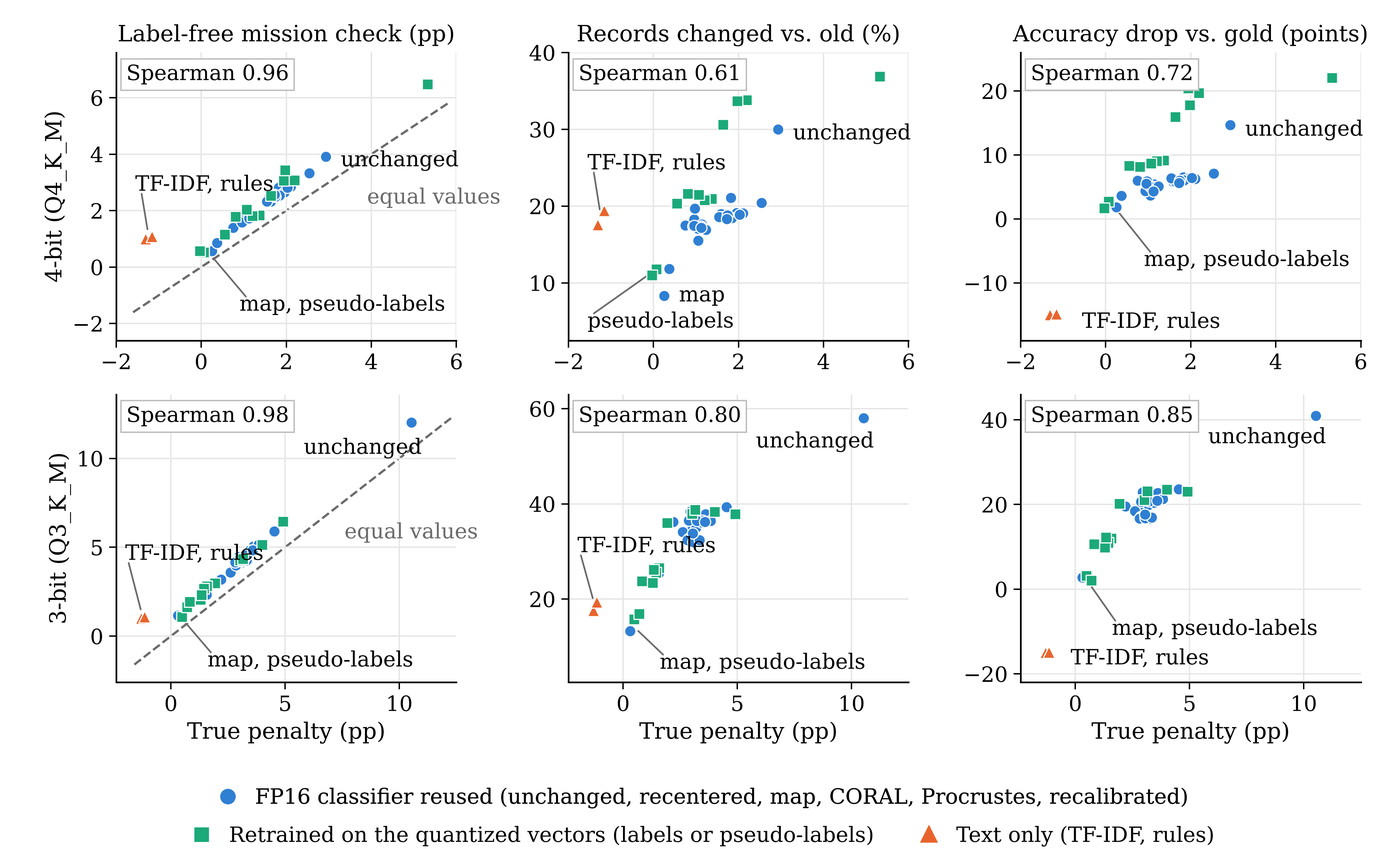
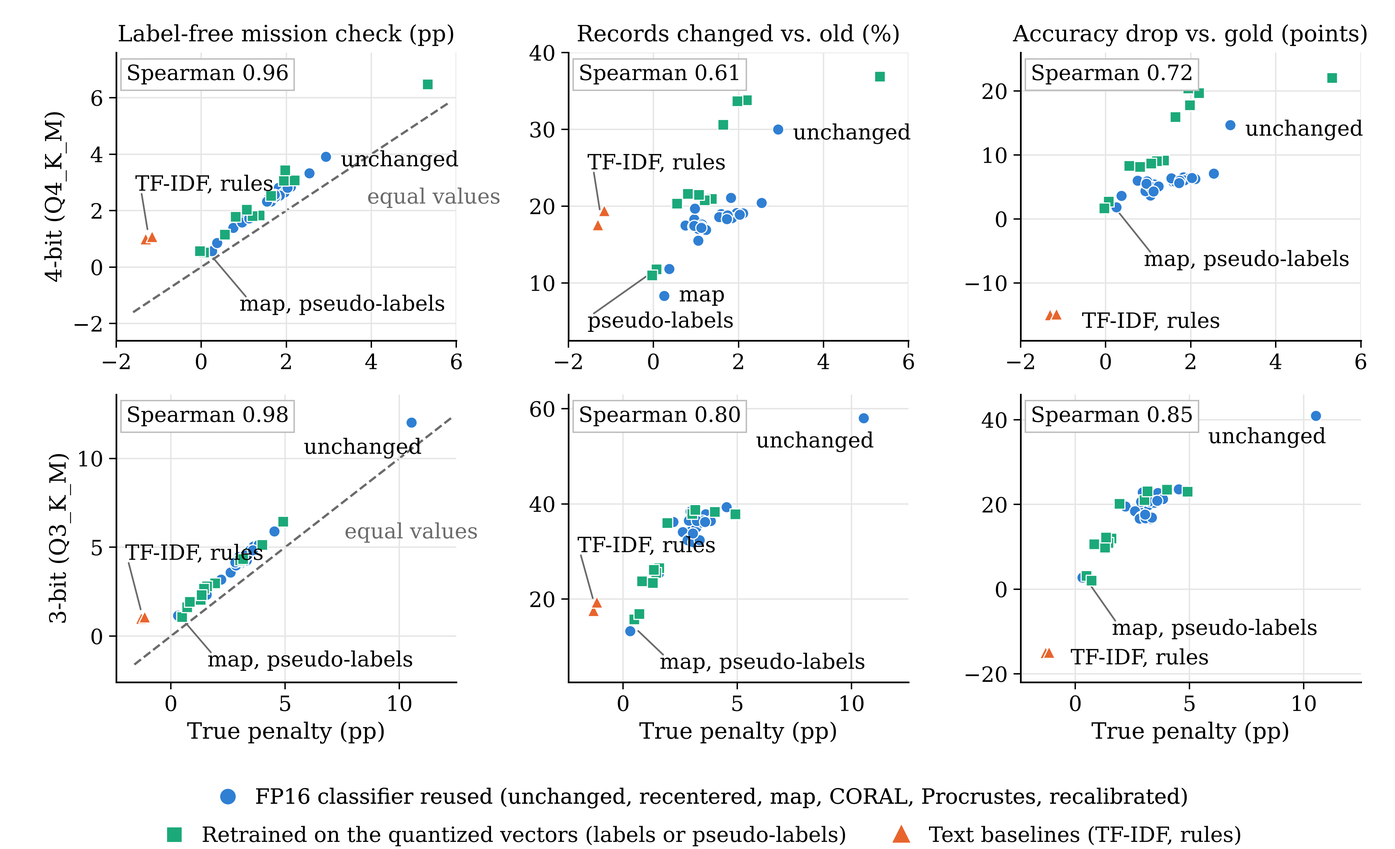
v2.17: manifest with head-fitting code and folds per result, Fig. 4 legend, READMEs

Changed region(s): [[0.1246, 0.9595, 0.8725, 1.0]]

diff --git a/check_confirmation/figures/fig4_check_v217.py b/check_confirmation/figures/fig4_check_v217.py
@@ -1,0 +1,114 @@
+# Fig. 4 (v2.17): true mission penalty of the 39 candidates (set C1, medium load) against the
+# label-free mission check, the share of changed records and the accuracy drop.
+# Same data and layout as v2.15/v2.16; only the legend entry of the text baselines changed ("Text only" ->
+# "Text baselines", because the TF-IDF baseline also reads incident-context tokens).
+# Usage: python3 fig4_check_v217.py check_results.json outdir
+import json, sys, os
+import matplotlib
+matplotlib.use('Agg')
+import matplotlib.pyplot as plt
+from matplotlib.lines import Line2D
+
+src, out = sys.argv[1], sys.argv[2]
+d = json.load(open(src))
+rows = [r for r in d['rows'] if r['set'] == 'C1' and r['level'] == 'M']
+cond = d['conditions']
+
+plt.rcParams.update({'font.family': 'DejaVu Serif', 'font.size': 8, 'axes.titlesize': 8,
+                     'axes.labelsize': 8, 'xtick.labelsize': 7.5, 'ytick.labelsize': 7.5,
+                     'legend.fontsize': 7.5, 'pdf.fonttype': 42, 'axes.linewidth': 0.6})
+BLUE, GREEN, ORANGE, GREY = '#2F7FD3', '#1BA97A', '#E8642C', '#6b6b6b'
+
+def group(arm):
+    if arm in ('tfidf', 'rule'): return 'text'
+    if arm == 'plp' or arm.startswith('ret'): return 'retrained'
+    return 'reused'
+STYLE = {'reused': dict(marker='o', color=BLUE, s=16), 'retrained': dict(marker='s', color=GREEN, s=15),
+         'text': dict(marker='^', color=ORANGE, s=18)}
+
+COLS = [('check_pp', 'Label-free mission check (pp)', 'spearman_check_pp'),
+        ('flips', 'Records changed vs. old (%)', 'spearman_flips'),
+        ('accuracy_drop', 'Accuracy drop vs. gold (points)', 'spearman_accuracy_drop')]
+TARGETS = [('Q4_K_M', '4-bit (Q4_K_M)'), ('Q3_K_M', '3-bit (Q3_K_M)')]
+
+def pt(t, arm, key):
+    r = next(r for r in rows if r['target'] == t and r['arm'] == arm)
+    return r['true_pp'], r[key]
+
+# label placements: (text, arms to point at or None, text position in data units, ha)
+LAB = {
+ ('Q4_K_M', 'check_pp'): [('unchanged', None, ('rawp', 0.35, -0.15), 'left'),
+                          ('TF-IDF, rules', ['tfidf', 'rule'], (-1.55, 2.9), 'left'),
+                          ('map, pseudo-labels', ['alnp', 'plp'], (0.9, -1.35), 'left')],
+ ('Q4_K_M', 'flips'): [('unchanged', None, ('rawp', 0.35, -0.6), 'left'),
+                       ('TF-IDF, rules', ['tfidf', 'rule'], (-1.55, 25.5), 'left'),
+                       ('pseudo-labels', ['plp'], (-1.55, 4.9), 'left'),
+                       ('map', None, ('alnp', 0.35, 0.0), 'left')],
+ ('Q4_K_M', 'accuracy_drop'): [('unchanged', None, ('rawp', 0.35, -0.8), 'left'),
+                               ('map, pseudo-labels', ['alnp', 'plp'], (0.9, -6.5), 'left'),
+                               ('TF-IDF, rules', None, ('tfidf', 0.75, -1.2), 'left')],
+ ('Q3_K_M', 'check_pp'): [('unchanged', None, ('rawp', 0.45, -1.45), 'right'),
+                          ('TF-IDF, rules', ['tfidf', 'rule'], (-2.0, 4.6), 'left'),
+                          ('map, pseudo-labels', ['alnp', 'plp'], (1.6, -1.4), 'left')],
+ ('Q3_K_M', 'flips'): [('unchanged', None, ('rawp', 0.45, -5.0), 'right'),
+                       ('TF-IDF, rules', ['tfidf', 'rule'], (-2.0, 31.0), 'left'),
+                       ('map, pseudo-labels', ['alnp', 'plp'], (1.6, 6.5), 'left')],
+ ('Q3_K_M', 'accuracy_drop'): [('unchanged', None, ('rawp', 0.45, -5.2), 'right'),
+                               ('map, pseudo-labels', ['alnp', 'plp'], (1.6, -9.5), 'left'),
+                               ('TF-IDF, rules', None, ('tfidf', 1.1, -1.5), 'left')],
+}
+YLIM = {('Q4_K_M', 'check_pp'): (-2.6, 7.6), ('Q4_K_M', 'flips'): (2.5, 40), ('Q4_K_M', 'accuracy_drop'): (-19, 26),
+        ('Q3_K_M', 'check_pp'): (-2.6, 13.6), ('Q3_K_M', 'flips'): (2.5, 63), ('Q3_K_M', 'accuracy_drop'): (-22, 46)}
+XLIM = {'Q4_K_M': (-2.0, 6.0), 'Q3_K_M': (-2.4, 12.5)}
+
+fig, axes = plt.subplots(2, 3, figsize=(6.9, 4.2))
+for i, (t, tname) in enumerate(TARGETS):
+    rr = [r for r in rows if r['target'] == t]
+    c = cond[t + ' C1 M']
+    for j, (key, title, skey) in enumerate(COLS):
+        ax = axes[i][j]
+        for g in ('reused', 'retrained', 'text'):
+            xs = [r['true_pp'] for r in rr if group(r['arm']) == g]
+            ys = [r[key] for r in rr if group(r['arm']) == g]
+            ax.scatter(xs, ys, edgecolors='white', linewidths=0.4, zorder=3, **STYLE[g])
+        ax.set_xlim(*XLIM[t]); ax.set_ylim(*YLIM[(t, key)])
+        if key == 'check_pp':
+            lo, hi = -1.6, XLIM[t][1] - 0.2
+            ax.plot([lo, hi], [lo, hi], ls='--', lw=0.8, color=GREY, zorder=1)
+            ex = 3.9 if t == 'Q4_K_M' else 7.6
+            ax.text(ex, ex - (1.65 if t == 'Q4_K_M' else 2.1), 'equal values', color=GREY, fontsize=7.5, ha='left')
+        for text, arms, pos, ha in LAB[(t, key)]:
+            if isinstance(pos[0], str):
+                x0, y0 = pt(t, pos[0], key)
+                ax.text(x0 + pos[1], y0 + pos[2], text, fontsize=7.5, ha=ha, va='center', zorder=4)
+            else:
+                ax.text(pos[0], pos[1], text, fontsize=7.5, ha=ha, va='center', zorder=4)
+            if arms:
+                xs = [pt(t, a, key)[0] for a in arms]; ys = [pt(t, a, key)[1] for a in arms]
+                tx, ty = sum(xs) / len(xs), sum(ys) / len(ys)
+                sx = pos[0] + (0.15 if ha == 'left' else -0.15)
+                sy = pos[1] + (0.6 if pos[1] < ty else -0.6) * (YLIM[(t, key)][1] - YLIM[(t, key)][0]) / 20
+                ax.annotate('', xy=(tx, ty), xytext=(sx, sy),
+                            arrowprops=dict(arrowstyle='-', lw=0.6, color=GREY, shrinkA=0, shrinkB=3), zorder=2)
+        ax.text(0.03, 0.96, 'Spearman %.2f' % c[skey], transform=ax.transAxes, ha='left', va='top', fontsize=7.5,
+                bbox=dict(boxstyle='square,pad=0.25', fc='white', ec='#bdbdbd', lw=0.5), zorder=5)
+        ax.grid(True, color='#e6e6e6', lw=0.5, zorder=0)
+        for s in ('top', 'right'): ax.spines[s].set_visible(False)
+        ax.tick_params(length=2.5, width=0.5, pad=2)
+        if i == 0: ax.set_title(title, pad=4)
+        if i == 1: ax.set_xlabel('True penalty (pp)', labelpad=2)
+        if j == 0: ax.set_ylabel(tname, labelpad=2)
+
+handles = [Line2D([], [], ls='', marker='o', color=BLUE, ms=4.5, label='FP16 classifier reused (unchanged, recentered, map, CORAL, Procrustes, recalibrated)'),
+           Line2D([], [], ls='', marker='s', color=GREEN, ms=4.2, label='Retrained on the quantized vectors (labels or pseudo-labels)'),
+           Line2D([], [], ls='', marker='^', color=ORANGE, ms=4.8, label="Text baselines (TF-IDF, rules)")]
+leg1 = fig.legend(handles=handles[:1], loc='lower center', ncol=1, frameon=False, bbox_to_anchor=(0.5, 0.035),
+                  handletextpad=0.3, borderaxespad=0.1)
+fig.legend(handles=handles[1:], loc='lower center', ncol=2, frameon=False, bbox_to_anchor=(0.5, -0.01),
+           handletextpad=0.3, columnspacing=1.6, borderaxespad=0.1)
+fig.add_artist(leg1)
+fig.tight_layout(rect=(0, 0.095, 1, 1), h_pad=0.9, w_pad=1.0)
+os.makedirs(out, exist_ok=True)
+fig.savefig(os.path.join(out, 'fig4_check.pdf'))
+fig.savefig(os.path.join(out, 'edgesar_fig_4.png'), dpi=600)
+print('saved', fig.get_size_inches())

diff --git a/PAPER_MANIFEST_v2.17.md b/PAPER_MANIFEST_v2.17.md
@@ -1,0 +1,66 @@
+# Manuscript draft v2.17: where each result comes from
+
+This file maps every table, figure and result section of manuscript draft v2.17 (*Adapting a Hidden-State Task Classifier to a 4-Bit
+Language Model: Missed Incidents and a Label-Free Check in Simulated Multi-UAV Rescue*) to the files of this repository (git tag
+`paper-v2.17`). Some older READMEs and result files inside the folders use the table numbers of earlier drafts; this manifest gives the
+current numbers. No result file was changed for v2.17 (only the legend of Fig. 4). Zenodo version 1.2 (23 Nov 2026) holds the files up
+to that date; the analyses of Sections V-I, V-J.8, V-K and V-L (`deployment_check/`, `fresh_confirmation/review_r9.py`,
+`fresh_confirmation/review_r10*.py`, `check_confirmation/`) and the files added with the tags `paper-v2.16` and `paper-v2.17` are only
+in this repository.
+
+**Zenodo file name.** The Zenodo record of the code and confirmation package (doi:10.5281/zenodo.24454853, version 1.2) holds one archive,
+`EdgeSAR_code_and_confirmation_v1.3_for_Zenodo.zip`. "v1.3" in the file name is our internal package number; the record's version is 1.2.
+
+| Manuscript v2.17 | Files | Notes |
+|---|---|---|
+| Section III (system), Appendix A (prompt) | `zenodo_v1/code/` (study code; prompt template in `zenodo_v1/code/edgesar_pilot/common.py`), `code/repair_package/` | Allocator, simulator, heads, recentering and the label-free map. |
+| Section III, allocator tests | `zenodo_v1/code/edgesar_shield/results/M1_cbba_report.md`, `zenodo_v1/code/edgesar_shield/IMPLEMENTATION_EVIDENCE.md` (row M1) | Three separate tests: convergence on 10,000 random instances (up to 4 UAVs and 12 tasks; bundle length 3, full graph); total score against brute force on 150 small instances (2-3 UAVs, 2-6 tasks; mean 0.986, worst 0.836 for bundle length 3); first assignments with bundle length 1 against the greedy single-task allocator on the 1,400 gold tables (1,400 of 1,400 equal). The bundle limit applies per auction pass (`shield/alloc.py`, docstring). |
+| Section IV-A, text baselines | `zenodo_v1/code/edgesar_pilot/baselines.py` (`rule_decision`, `find_target`, `lr_text`, `LRBaseline`) | The TF-IDF classifier reads the report text plus five incident-context tokens (`lr_text`): number of open incidents, target matched or not, the matched incident's current sensor and priority, incident identifier written. TF-IDF word 1-2 grams, sublinear tf, min_df 2; logistic regression C = 10. The same code is used in every study. |
+| Table 1, Fig. 2 (left): development results by load | `development_study/repair_package/out_mission/`, `development_study/practical_advantage/out_levels/`, `out_text_baselines/` | Check: `python development_study/practical_advantage/verify_from_records.py ...` (see `development_study/README_SUPPLEMENT.md`). Heads: see "Head fitting" below. |
+| Table 2: AUC and accuracy, development | `development_study/repair_package/diag_auc.py`, `out_diag/AUC_DIAG.md`, `out_diag/auc_diag.json` | Each AUC cell gives the value from class logits / from softmax probabilities, as in `AUC_DIAG.md` (style A, action head). Own split: see "Head fitting" below. |
+| Table 3, Fig. 3 (dotted): development label budget | `development_study/practical_advantage/mission_gold_trace.py`, `out_trace/` (`TRACE_RESULTS.md`) | Also the development field diagnosis of Section V-F. |
+| Fig. 3 (drawing) | `fresh_confirmation/figures/fig3_labels_v216.py`, `fig3_labels.pdf`, `fig3_labels.png` | The four reference levels are labeled with their values. Fresh points: 100 and 300 labels are the mean of five label draws; 1,000 labels is one fit on all development reports. |
+| Section V-A: generated JSON against hidden-state readout | `zenodo_v1/code/edgesar_pilot/results/pilot_report.md` (JSON, rules, TF-IDF), `zenodo_v1/code/edgesar_heads/results_heads/` (hidden-state heads) | |
+| Section V-G: text baselines, new wording | `development_study/practical_advantage/out_text_baselines/`, `out_wording_shift/`; fresh: `fresh_confirmation/results.json` | |
+| Section V-H: what did not help | `zenodo_v1/code/edgesar_shield/` (runtime check in `shield/`; importance-matrix files in `results/iter2/ITER2_SUMMARY.md`) | |
+| Section V-I: cost and CPU deployment | `development_study/practical_advantage/bench_cost.py`, `out_cost/`; `deployment_check/` (see `deployment_check/MEMORY_FIELDS_NOTE.md`) | The timed heads are the scikit-learn heads of `shield/readout.py`. |
+| Section V-E, run checks of the first confirmation | `fresh_confirmation/RUN_NOTES_AND_DEVIATIONS.md` (items 2 to 5), `fresh_confirmation/FROZEN.sha256` | Vector files: SHA-256 after joining equal to the values recorded at extraction (all four); frozen script hash checked with `sha256sum -c` just before the single run. |
+| Table 4 (pre-specified primary analysis) | `fresh_confirmation/results.json`, `episode_outcomes.csv`, `rebuild_primary.py` | `python rebuild_primary.py episode_outcomes.csv` ends with `ALL EQUAL TO results.json: True`. |
+| Table 5, Fig. 2 (right), Fig. 3 (solid), fresh field diagnosis | `fresh_confirmation/results.json`, `RESULTS.md`, `records/` | The scarce-label whole-record accuracies (A / B) are the means of the five draws in `results.json` (`accuracy/A_all` and `accuracy/B_all`, arms `q4p_n100_d0..d4` and `q4p_n300_d0..d4`): 64.1 / 60.6 (100 labels) and 74.3 / 69.3 (300 labels; set A is exactly 74.25, rounded half up). |
+| Section V-J.1, Table B1 | `fresh_confirmation/review_analyses.py` (`REVIEW_RESULTS.md` item 1, "Table 6" there), `review_overlap.py` (`review_overlap_by_population.json`, R8) | Exploratory. |
+| Section V-J.2, Table B4 | `fresh_confirmation/review_analyses.py`, `review_r2b.py`, `review_r2c.py` (`REVIEW_RESULTS.md` item 2, "Table 7" there) | Exploratory. |
+| Section V-J.3, Table B2 | `fresh_confirmation/review_analyses.py` (`REVIEW_RESULTS.md` item 3, "Table 8" there) | Exploratory. AUC from softmax probabilities. |
+| Sections V-J.4 and V-J.5 | `fresh_confirmation/review_analyses.py` (`REVIEW_RESULTS.md` items 4 and 5) | Exploratory. |
+| Section V-J.6, Table B3 | `fresh_confirmation/review_analyses.py` (`REVIEW_RESULTS.md` item 6, "Table 9" there) | Exploratory. |
+| Section V-J.7, Table 6 (label accounting) | `fresh_confirmation/review_r7.py`, `review_results_r7.json` (`REVIEW_RESULTS.md` R7) | Exploratory. |
+| Section V-J.8 (recalibration comparator) | `fresh_confirmation/review_r9.py`, `review_results_r9.json` (`REVIEW_RESULTS.md` R9) | Exploratory. |
+| Section V-K (exploratory check) | `fresh_confirmation/review_r10.py`, `review_r10_analysis.py`, `review_results_r10*.json` (R10); rerun with the frozen script: `check_confirmation/exploratory_R11_setsAB/` | Exploratory. |
+| Section IV-G, set C texts | `check_confirmation/generation_manifest_C.json`, `gen_set_c.py` (`case_key`) | No set-C case (text, open incidents and gold record) repeats a development, first-confirmation or earlier set-C case. Texts identical to a first-confirmation text: 1,319 of 3,000 (C1), 423 of 2,000 (C2); to a development text: 649 (C1), 244 (C2). |
+| Sections IV-G and V-L, Table 7 (check confirmation) | `check_confirmation/PROTOCOL_CHECK_CONFIRM.md` (tag `check-protocol-2026-11-26`), `results/check_results.json`, `results/check_episodes.json`, `results/RESULTS.md` | Pre-specified; one run. The reports and gold records existed when the protocol was pushed; no model output on them did. |
+| Section V-L, post hoc analyses (six label-free options; label draws averaged) | `check_confirmation/posthoc_check_analyses.py`, `results/posthoc_check_analyses.md` | Not pre-specified; descriptive (added in v2.16). Part A is also in `posthoc_six_options.py`. |
+| Fig. 4 | `check_confirmation/figures/fig4_check_v217.py` (from `results/check_results.json`), `fig4_check.pdf`, `fig4_check.png` | Same data as v2.13; v2.17 only renames the legend entry "Text only" to "Text baselines". It shows two conditions: set C1 at medium load for the 4-bit and the 3-bit model. |
+| Fig. 1 | (diagram; no data) | |
+| Table 8 | (comparison with published studies; no data) | |
+| Q3_K_M model file | `check_confirmation/DEVIATIONS.md` item 1, `zenodo_v1/code/edgesar_pilot/results/model_hashes.json` | SHA-256 of the laptop file checked on 26 Nov 2026: equal to the pilot record. |
+
+## Head fitting: which code, which folds (Section IV-A and IV-B of v2.17)
+
+All heads are multinomial logistic regressions with an L2 penalty on standardized vectors, with C chosen from
+{0.0003, 0.003, 0.03, 0.3, 3} by three-fold grouped cross-validation on held-out cross-entropy. Two implementations were used:
+
+| Results | Heads (code) | Folds that choose C | Fitting and scoring reports |
+|---|---|---|---|
+| Table 1 (hidden-state arms), Fig. 2 (left), Table 3, Fig. 3 (dotted), development field diagnosis (Section V-F), cost measurement (Section V-I) | `zenodo_v1/code/edgesar_shield/shield/readout.py` (`Heads`, `fit_head`): scikit-learn `LogisticRegression` (L-BFGS, tol 1e-6, max_iter 3000) after `StandardScaler`; used by `development_study/repair_package/mission_ladder.py`, `development_study/practical_advantage/mission_gold_trace.py` and `bench_cost.py` | `GroupKFold(3)` over generation blocks (`DevData.group`, the generator's "families" of ten consecutive reports) | `shield/data.py`, `DevData.split`: five folds of the 1,000 style-A reports by generation block; per outer fold k: evaluation = fold k, calibration = fold k+1, fitting = the other three after removing exact duplicates of calibration or evaluation texts (about 520 remain) |
+| Table 2 | `development_study/repair_package/ppr_lib.py` (`fit_head`; L-BFGS in the row space of the standardized training matrix) via `run_ppr.fit_heads` | three folds grouped by masked template (`template_key`) | `diag_auc.py`: five folds of the 1,000 style-A reports grouped by masked template (`group_folds`, seed of repeat 0); heads fitted on four folds and scored on the fifth; values averaged over the folds |
+| Section V-G, development missions on style B (new wording) | `ppr_lib.fit_head` (see the note in `development_study/practical_advantage/wording_shift_mission.py`) | masked template | fitted on style A, scored on style B |
+| First confirmation (Tables 4 to 6, B1 to B4, Fig. 2 right, Fig. 3 solid) and its exploratory analyses (V-J, V-K); check confirmation (Table 7, Fig. 4) | `ppr_lib.fit_head` via `run_ppr.fit_heads` (`fresh_confirmation/fresh_confirm.py`, `review_*.py`, `check_confirmation/check_confirm.py`) | masked template | fitted on the 1,000 development style-A reports (all of them, or the drawn label subsets) |
+
+The label-free map (`ppr_lib.AffineMap`) chooses its ridge strength with three folds grouped by masked template in every study. Its means
+and scales are computed once from all its fitting reports.
+
+**Earlier numbering.** Drafts v2.14 to v2.17 use the numbering of this manifest. Draft v2.13 called Tables B1 to B4 "Supplementary Tables S1 to S4" (`supplementary/`, same numbers). Drafts up to
+v2.12 numbered the exploratory tables 6 to 11; `fresh_confirmation/REVIEW_RESULTS.md` keeps that numbering.
+
+**Note on `development_study/README_SUPPLEMENT.md`.** Its "Protocol file note" says that line 3 of `PROTOCOL_PRACTICAL_ADVANTAGE.md` was
+reworded in copies given to later mock reviews. That line mentions the score of an earlier mock review; it was reworded so that later
+mock reviews were not anchored on that score. The file in this repository is the original, byte for byte (its checksum is unchanged).

diff --git a/README.md b/README.md
@@ -4,9 +4,9 @@ Code and data of the study *"Adapting a Hidden-State Task Classifier to a 4-Bit 
 
 A classifier with three heads (action, sensor, priority) reads the last-token hidden vector of Llama 3.2 1B Instruct (llama.cpp GGUF files). Its task records drive a bounded CBBA allocator for three simulated UAVs in a flood rescue. The study measures how many incidents are verified late or never when the FP16 classifier is moved to the 4-bit Q4_K_M model: unchanged, recentred, with a label-free alignment map, or retrained with 100, 300 or 1,000 labels. All reports are synthetic.
 
-**Code and confirmation package (permanent record):** [doi:10.5281/zenodo.24454853](https://doi.org/10.5281/zenodo.24454853) (version 1.2, 23 Nov 2026). The analyses added after that version (Sections V-I, V-J.8, V-K and V-L of the manuscript, among them `deployment_check/` and `check_confirmation/`) are only in this repository; `PAPER_MANIFEST_v2.16.md` lists where each one is.
+**Code and confirmation package (permanent record):** [doi:10.5281/zenodo.24454853](https://doi.org/10.5281/zenodo.24454853) (version 1.2, 23 Nov 2026). The analyses added after that version (Sections V-I, V-J.8, V-K and V-L of the manuscript, among them `deployment_check/` and `check_confirmation/`) are only in this repository; `PAPER_MANIFEST_v2.17.md` lists where each one is. That record's archive file is named `EdgeSAR_code_and_confirmation_v1.3_for_Zenodo.zip`; "v1.3" is our internal package number, the record's version is 1.2.
 
-**Version that accompanies manuscript draft v2.16:** git tag `paper-v2.16` (https://github.com/SamadhiViduravi/edgeSAR/tree/paper-v2.16). `PAPER_MANIFEST_v2.16.md` maps every table (1 to 8, B1 to B4), figure (1 to 4) and result section of that draft to the files here (some READMEs inside the folders use the table numbers of earlier drafts; the manifest gives the current ones). New since `paper-v2.13`, without changing any result file: the post hoc analyses of Section V-L (`check_confirmation/posthoc_check_analyses.py`: the six label-free options only, and the label draws averaged), the scripts of Fig. 3 (`fresh_confirmation/figures/`) and Fig. 4 (`check_confirmation/figures/`), and the result of the SHA-256 check of the 3-bit model file (`check_confirmation/DEVIATIONS.md`). (A tag `paper-v2.15` was prepared for draft v2.15 but never published; its content is part of this tag.) Earlier tags: `paper-v2.13` (results of the check confirmation in `check_confirmation/`, and `supplementary/` with the tables that are now Tables B1 to B4 in Appendix B), `check-protocol-2026-11-26` (the protocol, analysis script, reports and GPU script of the check confirmation, pushed before the new vectors were extracted), `paper-v2.12` (the exploratory label-free check, `fresh_confirmation/review_r10*.py`), `paper-v2.10` (memory-field note of the deployment runs) and `paper-v2.8` (CPU deployment runs).
+**Version that accompanies manuscript draft v2.17:** git tag `paper-v2.17` (https://github.com/SamadhiViduravi/edgeSAR/tree/paper-v2.17). `PAPER_MANIFEST_v2.17.md` maps every table (1 to 8, B1 to B4), figure (1 to 4) and result section of that draft to the files here (some READMEs inside the folders use the table numbers of earlier drafts; the manifest gives the current ones). It also lists which head-fitting code and which cross-validation folds each result used: the development missions on style A and the cost measurement used the scikit-learn heads of `zenodo_v1/code/edgesar_shield/shield/readout.py` with folds grouped by generation block; Table 2, the development missions on style B and both confirmations used `ppr_lib.fit_head` with folds grouped by masked template. New in `paper-v2.17`, without changing any result file: this manifest, and Fig. 4 with the legend entry "Text baselines" instead of "Text only" (`check_confirmation/figures/fig4_check_v217.py`), because the TF-IDF baseline also reads five incident-context tokens (`zenodo_v1/code/edgesar_pilot/baselines.py`, `lr_text`). `paper-v2.16` (draft v2.16) added the post hoc analyses of Section V-L (`check_confirmation/posthoc_check_analyses.py`), the scripts of Fig. 3 (`fresh_confirmation/figures/`) and Fig. 4 (`check_confirmation/figures/`), and the result of the SHA-256 check of the 3-bit model file (`check_confirmation/DEVIATIONS.md`); a tag `paper-v2.15` was prepared but never published. Earlier tags: `paper-v2.13` (results of the check confirmation in `check_confirmation/`, and `supplementary/` with the tables that are now Tables B1 to B4 in Appendix B), `check-protocol-2026-11-26` (the protocol, analysis script, reports and GPU script of the check confirmation, pushed before the new vectors were extracted), `paper-v2.12` (the exploratory label-free check, `fresh_confirmation/review_r10*.py`), `paper-v2.10` (memory-field note of the deployment runs) and `paper-v2.8` (CPU deployment runs).
 
 **Dataset (permanent record):** EdgeSAR-Reports-1400, [doi:10.5281/zenodo.24218688](https://doi.org/10.5281/zenodo.24218688) (data CC BY 4.0, code MIT).
 
@@ -15,13 +15,13 @@ A classifier with three heads (action, sensor, priority) reads the last-token hi
 | Folder | What it is |
 |---|---|
 | `zenodo_v1/` | The Zenodo release v1, unchanged: 1,400 reports (`data/cases.jsonl`), the seeded generator, the study code (`code/edgesar_pilot`, `edgesar_heads`, `edgesar_shield`, `V1`), `DATA_CARD.md`, checksums. Check it with `python zenodo_v1/verify_dataset.py`. |
-| `code/repair_package/` | `ppr_lib.py` and `run_ppr.py`: the classifier heads, recentring, alignment map and retraining used by the fresh confirmation. |
-| `development_study/` | The development (exploratory) study: repair and label-budget experiments, mission ladder, AUC diagnosis, text baselines (TF-IDF, keyword rules), wording shift, cost and load levels, each with its hashed protocol and outputs. See `development_study/README_SUPPLEMENT.md`. |
+| `code/repair_package/` | `ppr_lib.py` and `run_ppr.py`: the classifier heads, recentring, alignment map and retraining used by Table 2, the development missions on style B and both confirmations (the development missions on style A used `zenodo_v1/code/edgesar_shield/shield/readout.py`). |
+| `development_study/` | The development (exploratory) study: repair and label-budget experiments, mission ladder, AUC diagnosis, text baselines (TF-IDF with incident-context tokens, keyword rules), wording shift, cost and load levels, each with its hashed protocol and outputs. See `development_study/README_SUPPLEMENT.md`. |
 | `fresh_confirmation/` | The pre-specified confirmation on 7,000 fresh reports: frozen protocol, scripts and SHA-256 hash file, timestamp record, fresh reports, episode manifest, per-episode outcomes of every arm, registered results, run notes, and the exploratory (not pre-specified) analyses, including the label accounting of Table 6 (`review_r7.py`), the overlap by development population (`review_overlap.py`), the decision-level recalibration comparator (`review_r9.py`) and the label-free mission check (`review_r10.py`, `review_r10_analysis.py`). See `fresh_confirmation/README.md`. |
 | `check_confirmation/` | The pre-specified confirmation of the label-free mission check (set C, 5,000 new reports; 4-bit and 3-bit models; 39 candidate classifiers; 12 conditions): frozen protocol and hash file, analysis and extraction scripts, the new reports, the results (`results/check_results.json`, per-episode counts, run log, `results/RESULTS.md`), the extraction report and server logs, the exploratory run R11 on sets A and B, and `DEVIATIONS.md`. See `check_confirmation/README.md`. |
 | `supplementary/` | Tables B1 to B4 of the manuscript (Appendix B; exploratory analyses of the first confirmation), as Markdown and Word; the files keep their draft-v2.13 names (S1 to S4). See `supplementary/README.md`. |
 | `deployment_check/` | The CPU deployment runs of Section V-I (laptop CPU, llama.cpp b11901, four configurations A-D): scripts and exact commands, the folded classifier (`folded/folded_q4.npz`), per-report timings and records, memory samples and the `llama-server` logs. Used for memory and latency (and the service time of the delay analysis). Units are MiB; see `deployment_check/MEMORY_FIELDS_NOTE.md`. |
-| `PAPER_MANIFEST_v2.16.md` | Where each table, figure and result section of manuscript draft v2.16 comes from. |
+| `PAPER_MANIFEST_v2.17.md` | Where each table, figure and result section of manuscript draft v2.17 comes from, and which head-fitting code and folds each result used. |
 | `make_root.py` | Builds the folder layout that the confirmation scripts expect (`--root`). |
 | `app_v1_demo/` | The first web prototype of the project (Next.js + FastAPI mission-control app and an allocation demo page, October 2026). Kept for the project record; **not used for any result in the paper**. See `app_v1_demo/README_FIRST.md`. |
 

diff --git a/fresh_confirmation/README.md b/fresh_confirmation/README.md
@@ -26,7 +26,7 @@ every value against `results.json`.
 | `RUN_NOTES_AND_DEVIATIONS.md` | Everything that happened around the run |
 | `review_analyses.py`, `review_r2b.py`, `review_r2c.py`, `review_r7.py` | Exploratory analyses added after the registered run, in answer to review (not pre-registered); `review_r7.py` (22 Nov 2026) is the label accounting of Table 6; `review_overlap.py` (23 Nov 2026) is the overlap of Table B1 by development population; `review_r9.py` (23 Nov 2026) is the decision-level recalibration comparator; `review_r10.py`, `review_r10_analysis.py` and `review_r10_fig4.py` (25 Nov 2026) are the exploratory label-free mission check of Section V-K (Table 11 and Fig. 4 of draft v2.12; in v2.15 the check confirmation of Section V-L, Table 7 and Fig. 4 are in `check_confirmation/`) |
 | `REVIEW_RESULTS.md`, `review_results.json`, `review_results_r2b.json`, `review_results_r2c.json`, `review_results_r7.json`, `review_overlap_by_population.json`, `review_results_r9.json`, `review_results_r10.json`, `review_results_r10_episodes.json`, `review_results_r10_analysis.json`, `review_r10_log.txt` | Their outputs (Section V-J with Table 6 and Tables B1 to B4, and Section V-K, of manuscript v2.15; `REVIEW_RESULTS.md` keeps the table numbers of earlier drafts, see `PAPER_MANIFEST_v2.15.md`) |
-| `figures/fig3_labels_v216.py`, `figures/fig3_labels.pdf`, `figures/fig3_labels.png` | Fig. 3 of manuscript v2.16 (label budget at medium load, development and fresh, with the four reference levels labeled with their values). The numbers and their source files are listed at the top of the script: `python figures/fig3_labels_v216.py figures` |
+| `figures/fig3_labels_v216.py`, `figures/fig3_labels.pdf`, `figures/fig3_labels.png` | Fig. 3 of manuscript drafts v2.16 and v2.17 (label budget at medium load, development and fresh, with the four reference levels labeled with their values). The numbers and their source files are listed at the top of the script: `python figures/fig3_labels_v216.py figures` |
 
 The hidden-state vectors (4 x 57 MB) and model files are not in this package. The vectors can be re-made with `fresh_extract.py` and the
 audited GGUF files (llama.cpp b11901); their SHA-256 values are in `extraction_report.json`.

diff --git a/check_confirmation/README.md b/check_confirmation/README.md
@@ -27,7 +27,7 @@ penalty is the same difference computed with the gold records. The check needs n
 | `DEVIATIONS.md` | Notes on how the run relates to the protocol. |
 | `posthoc_check_analyses.py`, `results/posthoc_check_analyses.md` | Post hoc and descriptive (not pre-specified, added with tag `paper-v2.16`; Section V-L): (A) the check over the six label-free options only, per condition; (B) the five label draws of each method-and-budget combination averaged (15 options per condition), with the Spearman correlation of the check, of the record flips and of the labeled accuracy drop. `python posthoc_check_analyses.py results/check_results.json > results/posthoc_check_analyses.md` |
 | `posthoc_six_options.py`, `results/posthoc_six_options.md` | Part A alone, as prepared for draft v2.15 (same numbers). |
-| `figures/fig4_check_v215.py`, `figures/fig4_check.pdf`, `figures/fig4_check.png` | Fig. 4 of the manuscript (drafts v2.15 and v2.16), drawn from `results/check_results.json` (`python figures/fig4_check_v215.py results/check_results.json figures`). |
+| `figures/fig4_check_v217.py`, `figures/fig4_check.pdf`, `figures/fig4_check.png` | Fig. 4 of the manuscript (draft v2.17; set C1, medium load, 4-bit and 3-bit model), drawn from `results/check_results.json` (`python figures/fig4_check_v217.py results/check_results.json figures`). Same as the v2.15/v2.16 drawing (`figures/fig4_check_v215.py`) except the legend entry "Text baselines" (was "Text only"). |
 
 ## Rerun
 

diff --git a/supplementary/README.md b/supplementary/README.md
@@ -3,4 +3,4 @@
 From manuscript draft v2.14 on, these four tables are inside the paper, as Tables B1 to B4 of Appendix B. The files here keep their
 draft-v2.13 names: Table S1 = Table B1 (overlap with the development reports), S2 = B2 (accuracy and AUC of the FP16 heads),
 S3 = B3 (inference time inside the mission) and S4 = B4 (unseen text and unseen templates). The numbers are unchanged.
-Their scripts and outputs are in `fresh_confirmation/` (see `PAPER_MANIFEST_v2.16.md`).
+Their scripts and outputs are in `fresh_confirmation/` (see `PAPER_MANIFEST_v2.17.md`).
